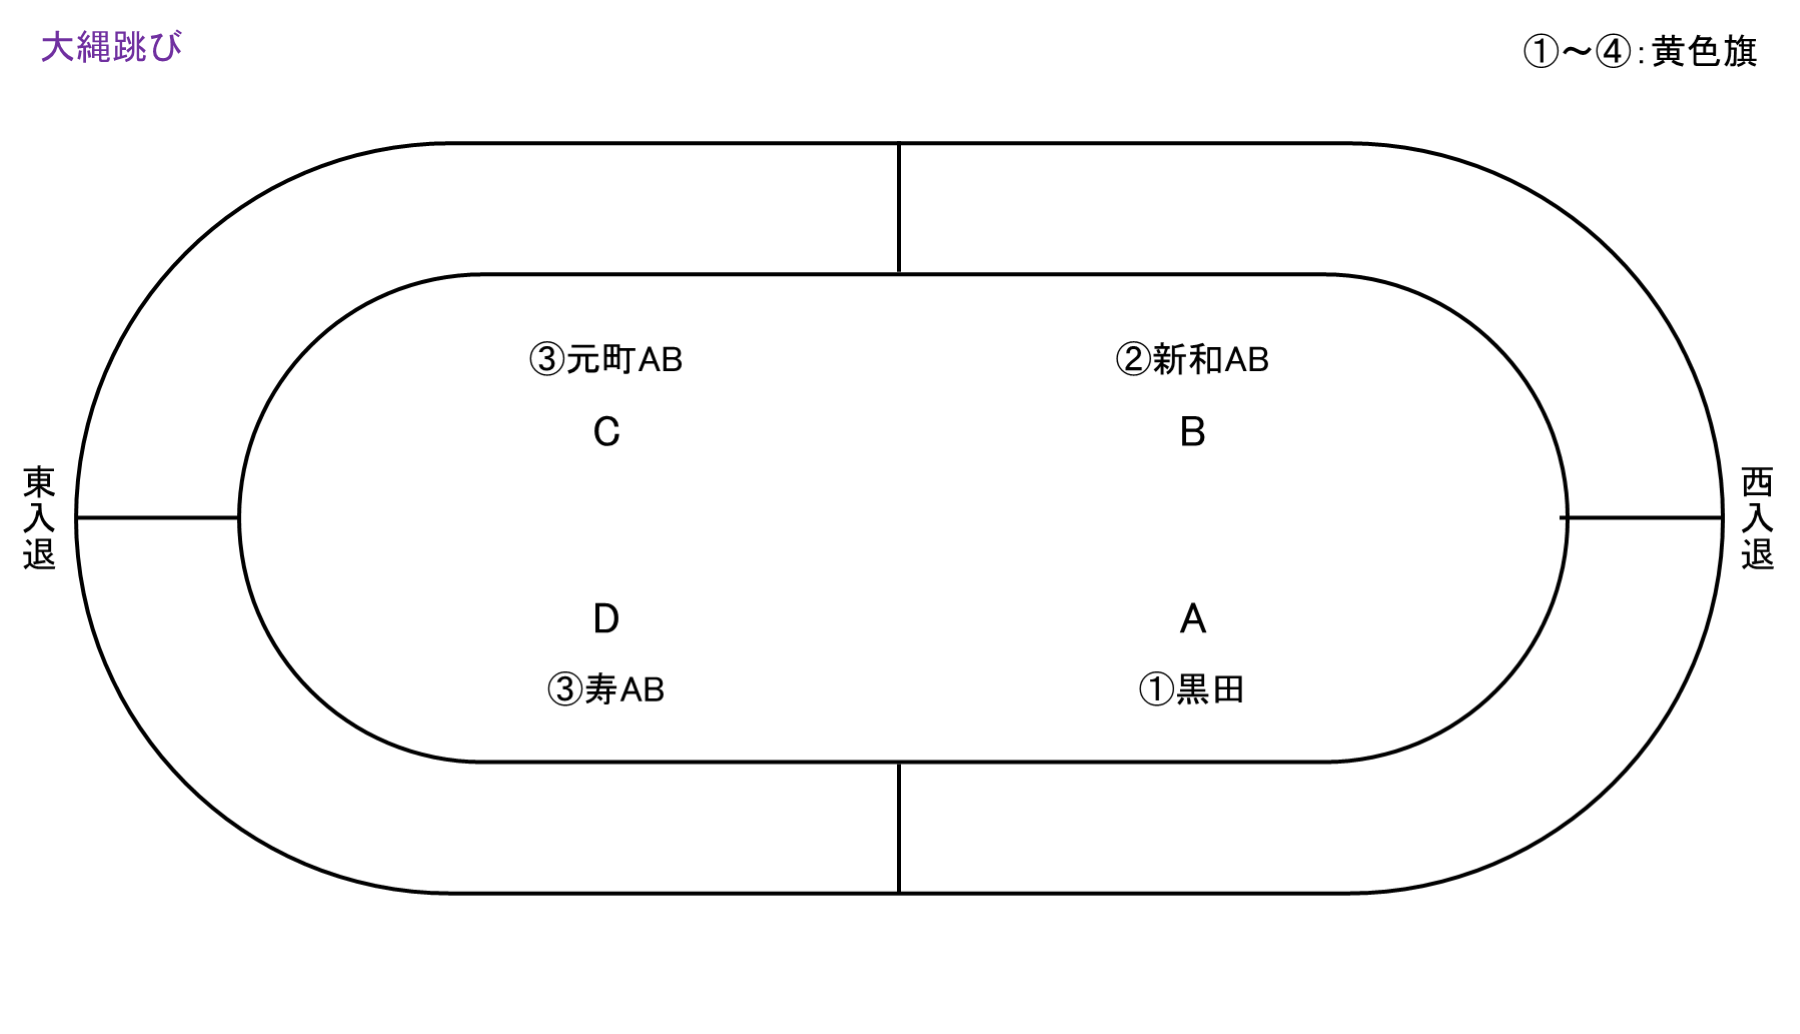
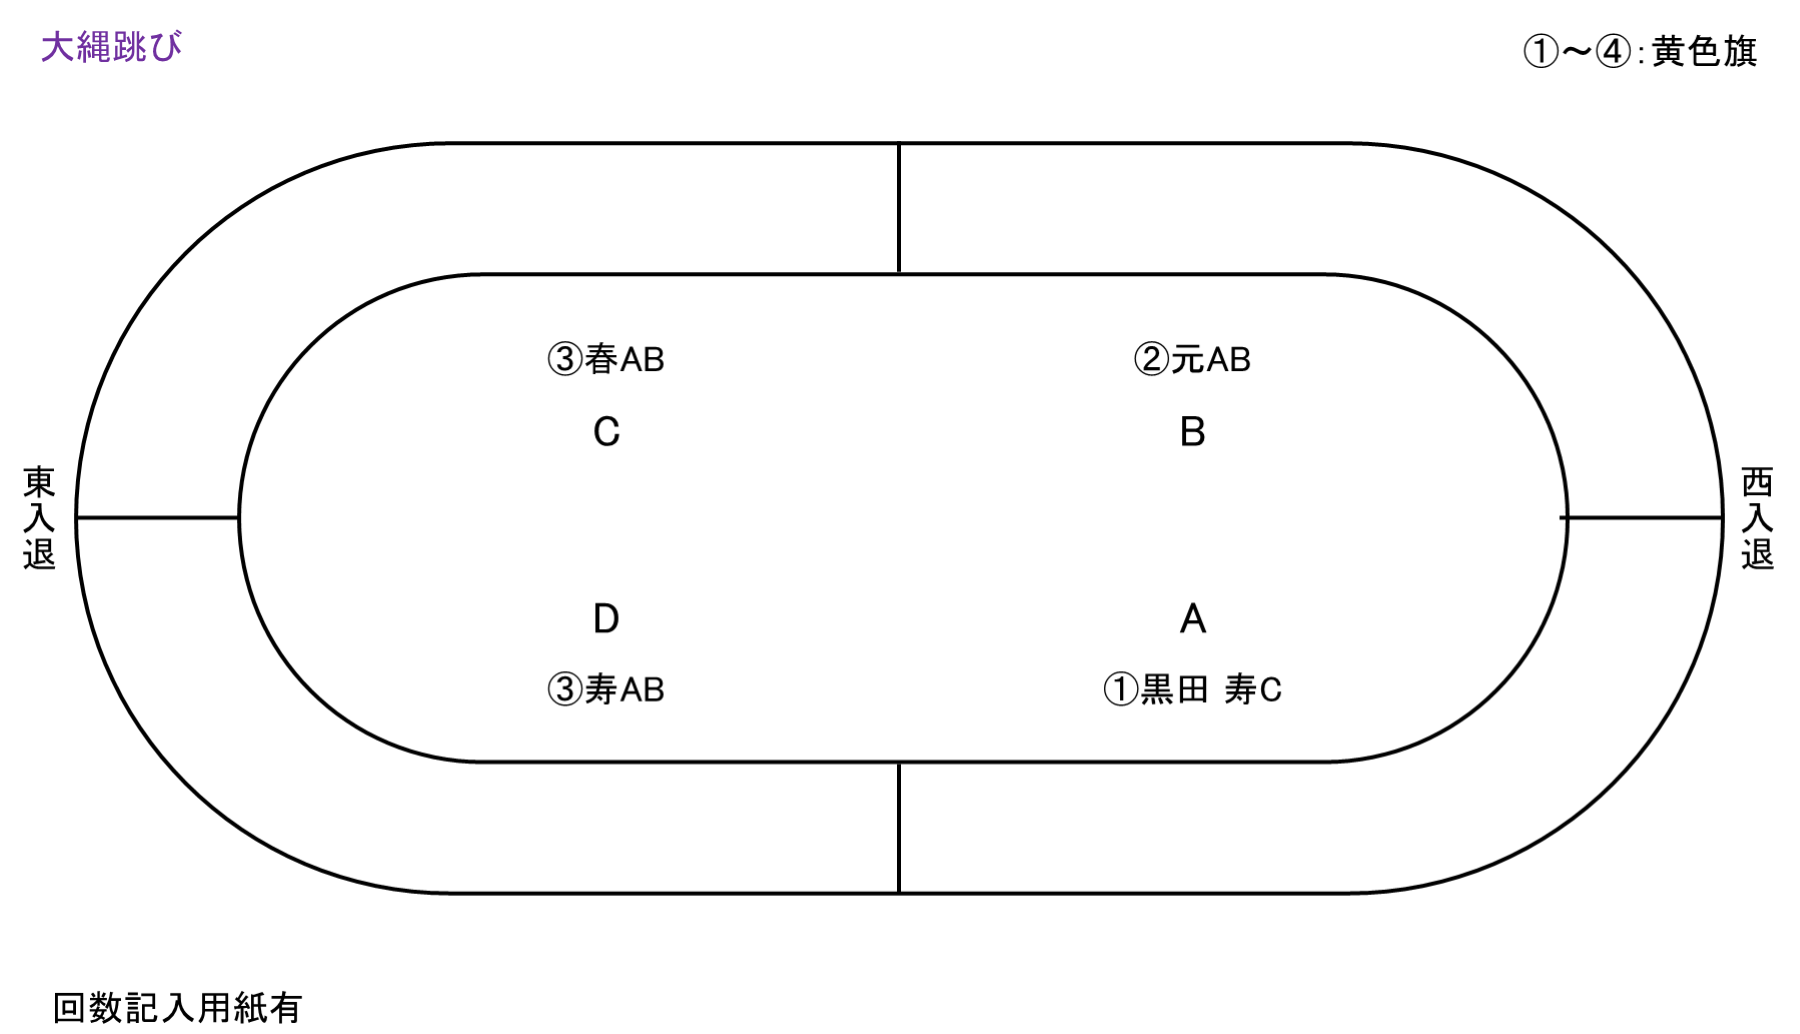
審判要項データ・配置図を260919版に更新し、リストの箇条書き化と表紙風デザインに変更
- Excel(審判要項作成中_260919_7)・配置図パワポ7から種目データと配置図画像13枚を再生成
  - 管理票シートの見出し行が1行増えたことによる担当者データのズレを修正
- 競技方法・審判の役割のリストを連番から中点(・)の箇条書きに変更
- ヘッダーの表紙サムネイル埋め込みを削除し、タイトルを二重線で囲む・走る人のマークを添えるなど、審判要項の表紙に近い雰囲気のデザインに調整
- 雨天順延の記載を削除(実施予定なしのため)
- データ更新に合わせてService Workerのキャッシュバージョンを更新

diff --git a/site/css/style.css b/site/css/style.css
@@ -40,40 +40,45 @@ h1, h2, h3 {
   text-align: center;
 }
 
-.app-header__cover {
-  position: absolute;
-  top: 12px;
-  right: 14px;
-  width: 40px;
-  padding: 0;
-  border: 2px solid rgba(255, 255, 255, 0.7);
-  border-radius: 6px;
-  overflow: hidden;
-  background: #fff;
-  box-shadow: 0 2px 6px rgba(0, 0, 0, 0.25);
+.app-header__frame {
+  max-width: 330px;
+  margin: 0 auto;
+  padding: 14px 8px 12px;
+  border-top: 1px solid rgba(255, 255, 255, 0.85);
+  border-bottom: 1px solid rgba(255, 255, 255, 0.85);
+  box-shadow:
+    0 3px 0 -2px rgba(255, 255, 255, 0.4),
+    0 -3px 0 -2px rgba(255, 255, 255, 0.4);
 }
 
-.app-header__cover img {
-  display: block;
-  width: 100%;
-  height: auto;
-}
-
-.app-header h1 {
-  font-size: 17px;
+.app-header__kicker {
+  margin: 0;
+  font-size: 13px;
   font-weight: 500;
-  line-height: 1.5;
+  letter-spacing: 0.08em;
+  opacity: 0.9;
 }
 
-.app-header h1 span {
-  font-size: 24px;
-  font-weight: 700;
+.app-header__title {
+  margin: 6px 0 0;
+  font-size: 36px;
+  font-weight: 900;
+  letter-spacing: 0.12em;
+  line-height: 1.2;
 }
 
 .app-header__date {
-  margin: 6px 0 0;
-  font-size: 13px;
+  margin: 10px 0 0;
+  font-size: 12.5px;
+  white-space: nowrap;
   opacity: 0.9;
+}
+
+.app-header__runner {
+  width: 26px;
+  height: 26px;
+  margin-top: 8px;
+  color: rgba(255, 255, 255, 0.75);
 }
 
 .filter-bar {
@@ -236,15 +241,26 @@ h1, h2, h3 {
 }
 
 .step-list {
+  list-style: none;
   margin: 0;
-  padding-left: 1.4em;
+  padding: 0;
   display: flex;
   flex-direction: column;
   gap: 8px;
 }
 
 .step-list li {
+  position: relative;
+  padding-left: 1.2em;
   font-size: 16px;
+}
+
+.step-list li::before {
+  content: "・";
+  position: absolute;
+  left: 0;
+  color: var(--color-accent);
+  font-weight: 700;
 }
 
 .course-table {

diff --git a/site/index.html b/site/index.html
@@ -14,11 +14,22 @@
 <body>
 
 <header class="app-header">
-  <button type="button" class="app-header__cover" id="cover-button" aria-label="審判要項の表紙を拡大表示">
-    <img src="images/cover.png" alt="審判要項 表紙" />
-  </button>
-  <h1>第70回 那珂南校区体育祭<br><span>審判要項</span></h1>
-  <p class="app-header__date">2026年10月4日（日）　※雨天時は10月11日に順延</p>
+  <div class="app-header__frame">
+    <p class="app-header__kicker">第70回　那珂南校区体育祭</p>
+    <h1 class="app-header__title">審判要項</h1>
+    <p class="app-header__date">2026年10月4日（日）</p>
+    <svg class="app-header__runner" viewBox="0 0 64 64" aria-hidden="true">
+      <circle cx="44" cy="10" r="5" fill="currentColor" />
+      <path
+        d="M40 17 L28 32 M28 32 L38 38 L34 50 M28 32 L18 36 L10 28 M40 17 L30 14 L22 20 M40 17 L48 24 L44 34"
+        fill="none"
+        stroke="currentColor"
+        stroke-width="4"
+        stroke-linecap="round"
+        stroke-linejoin="round"
+      />
+    </svg>
+  </div>
 </header>
 
 <main id="view-timeline" class="view">

diff --git a/site/js/app.js b/site/js/app.js
@@ -18,7 +18,6 @@
     imageOverlay: document.getElementById("image-overlay"),
     imageOverlayImg: document.getElementById("image-overlay-img"),
     imageOverlayClose: document.getElementById("image-overlay-close"),
-    coverButton: document.getElementById("cover-button"),
   };
 
   async function loadData() {
@@ -140,7 +139,7 @@
     return `
       <div class="section-block">
         <h2 class="section-block__title">${title}</h2>
-        <ol class="step-list">${lis}</ol>
+        <ul class="step-list">${lis}</ul>
       </div>
     `;
   }
@@ -247,9 +246,6 @@
 
   function setupNav() {
     el.backButton.addEventListener("click", showTimeline);
-    el.coverButton.addEventListener("click", () =>
-      openImageOverlay("images/cover.png", "審判要項の表紙")
-    );
     el.imageOverlayClose.addEventListener("click", closeImageOverlay);
     // 背景（画像の外側）をタップしたときだけ閉じる。画像自体のタップでは
     // 閉じないようにして、ピンチ操作や二本指ズームの邪魔をしない。

diff --git a/site/sw.js b/site/sw.js
@@ -1,6 +1,6 @@
 // オフラインでも開けるようにするためのキャッシュ設定
 // ファイルを追加・変更したら CACHE_NAME の数字を1つ増やすこと（更新が反映されるようになる）
-const CACHE_NAME = "shinpan-yoko-cache-v2";
+const CACHE_NAME = "shinpan-yoko-cache-v3";
 
 const PRECACHE_URLS = [
   "./",
